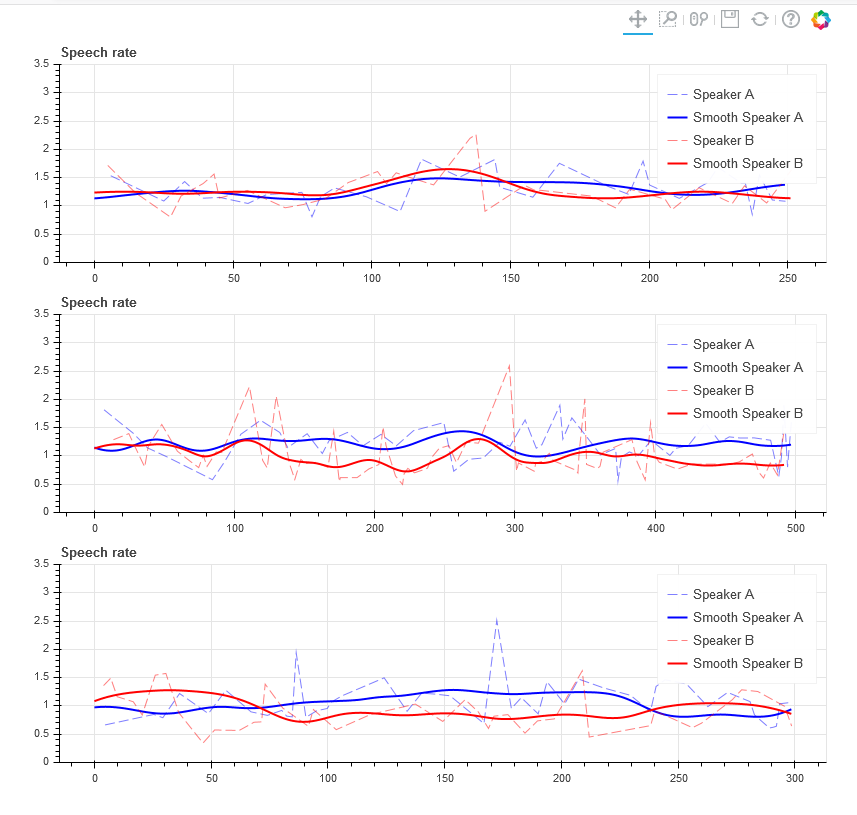
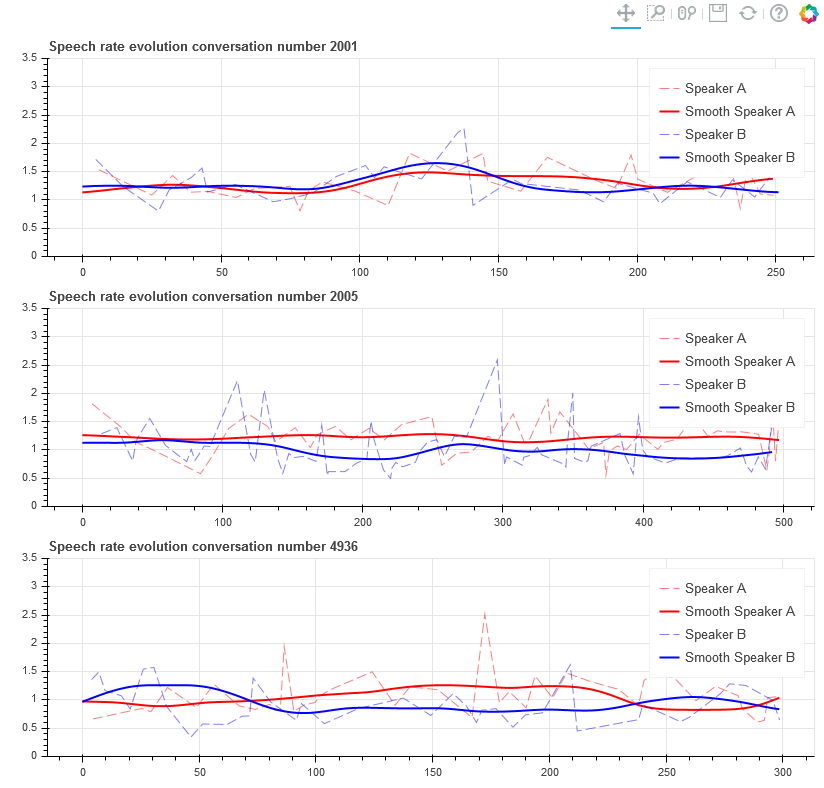
Data reading and visualization now from all files from a corpus folder

diff --git a/simple_data.py b/simple_data.py
@@ -1,17 +1,27 @@
+from os import listdir
 from numpy import *
 from scipy import signal, interpolate
 from bokeh.plotting import figure, show
 from bokeh.layouts import gridplot
 
-# Lecture des fichiers scv 
-corpus = [{"A":loadtxt(open("data/SW_2001_speech_rate_A.csv", "rb"), delimiter="\t", skiprows=1),
-           "B":loadtxt(open("data/SW_2001_speech_rate_B.csv", "rb"), delimiter="\t", skiprows=1)},
-          {"A":loadtxt(open("data/SW_2005_speech_rate_A.csv", "rb"), delimiter="\t", skiprows=1),
-           "B":loadtxt(open("data/SW_2005_speech_rate_B.csv", "rb"), delimiter="\t", skiprows=1)},
-          {"A":loadtxt(open("data/SW_4936_speech_rate_A.csv", "rb"), delimiter="\t", skiprows=1),
-           "B":loadtxt(open("data/SW_4936_speech_rate_B.csv", "rb"), delimiter="\t", skiprows=1)}]  
 
-# Pour le lissage des données
+# Importation des données de tous les fichiers du corpus dans répertoire "data" :
+
+corpus = {}
+for file_name in listdir("data"):
+    file_info = file_name.replace(".csv", "").split("_")
+    if (file_info[1] == "metadata"):
+        data_format = {'names': ("id", "id_conv","id_caller","id_speaker","id_topic","sex","age","geography","level_study"),
+                       'formats': ('i', 'i', 'U64', 'i', 'U64', 'U64', 'i', 'U64', 'i')}
+        corpus["metadata"]=loadtxt(open("data/"+file_name, "rb"), delimiter="\t", skiprows=1, dtype=data_format)
+    else:
+        if (file_info[1] not in corpus.keys()):
+            corpus[file_info[1]]={}
+        corpus[file_info[1]][file_info[4]]=loadtxt(open("data/"+file_name, "rb"), delimiter="\t", skiprows=1)
+
+
+# Pour le lissage des données :
+        
 def smooth(x,y,window_len):
     window=hanning(window_len)
     z=r_[y[window_len-1:0:-1],y,y[-2:-window_len-1:-1]]
@@ -20,22 +30,27 @@ def smooth(x,y,window_len):
     return {'x':arange(0, x[-1],0.5),'y':smoothed(arange(0, x[-1],0.5))}
 
 
-grid = []
 # Visualisation des données :
-for discussion in corpus:
-    sA = smooth(discussion["A"][:,2], discussion["A"][:,1],int(discussion["A"][-1,2]/20))
-    sB = smooth(discussion["B"][:,2], discussion["B"][:,1],int(discussion["B"][-1,2]/20))
+    
+grid = []
+color_palette = ["red", "blue", "green", "purple", "yellow"]
+
+for id_conv, conversation in corpus.items():
+    if (id_conv != "metadata"):
+        plot = figure(width=800, height=250, y_range=[0,3.5], title="Speech rate evolution conversation number "+id_conv)
+        color_number = 0
         
-    plot = figure(width=800, height=250, y_range=[0,3.5], title="Speech rate")
-    plot.line(discussion["A"][:,2], discussion["A"][:,1], legend="Speaker A",
-                line_width=1, color="blue", alpha=0.5, line_dash="10 4")
-    plot.line(sA['x'], sA['y'], legend="Smooth Speaker A ",
-                line_width=2, color="blue")
-    plot.line(discussion["B"][:,2], discussion["B"][:,1], legend="Speaker B",
-                line_width=1, color="red", alpha=0.5, line_dash="10 4")
-    plot.line(sB['x'], sB['y'], legend="Smooth Speaker B",
-                line_width=2, color="red")
-    plot.legend.click_policy="hide"
-    grid.append(plot)
+        for speaker, data in conversation.items():
+               
+                smoothed_data = smooth(data[:,2], data[:,1],int(data[-1,2]/20))
+            
+                plot.line(data[:,2], data[:,1], legend="Speaker "+speaker,
+                            line_width=1, color=color_palette[color_number%9], alpha=0.5, line_dash="10 4")
+                plot.line(smoothed_data['x'], smoothed_data['y'], legend="Smooth Speaker "+speaker,
+                            line_width=2, color=color_palette[color_number%9])
+                color_number += 1
+
+        plot.legend.click_policy="hide"
+        grid.append(plot)
     
 show(gridplot(grid, ncols=1))
